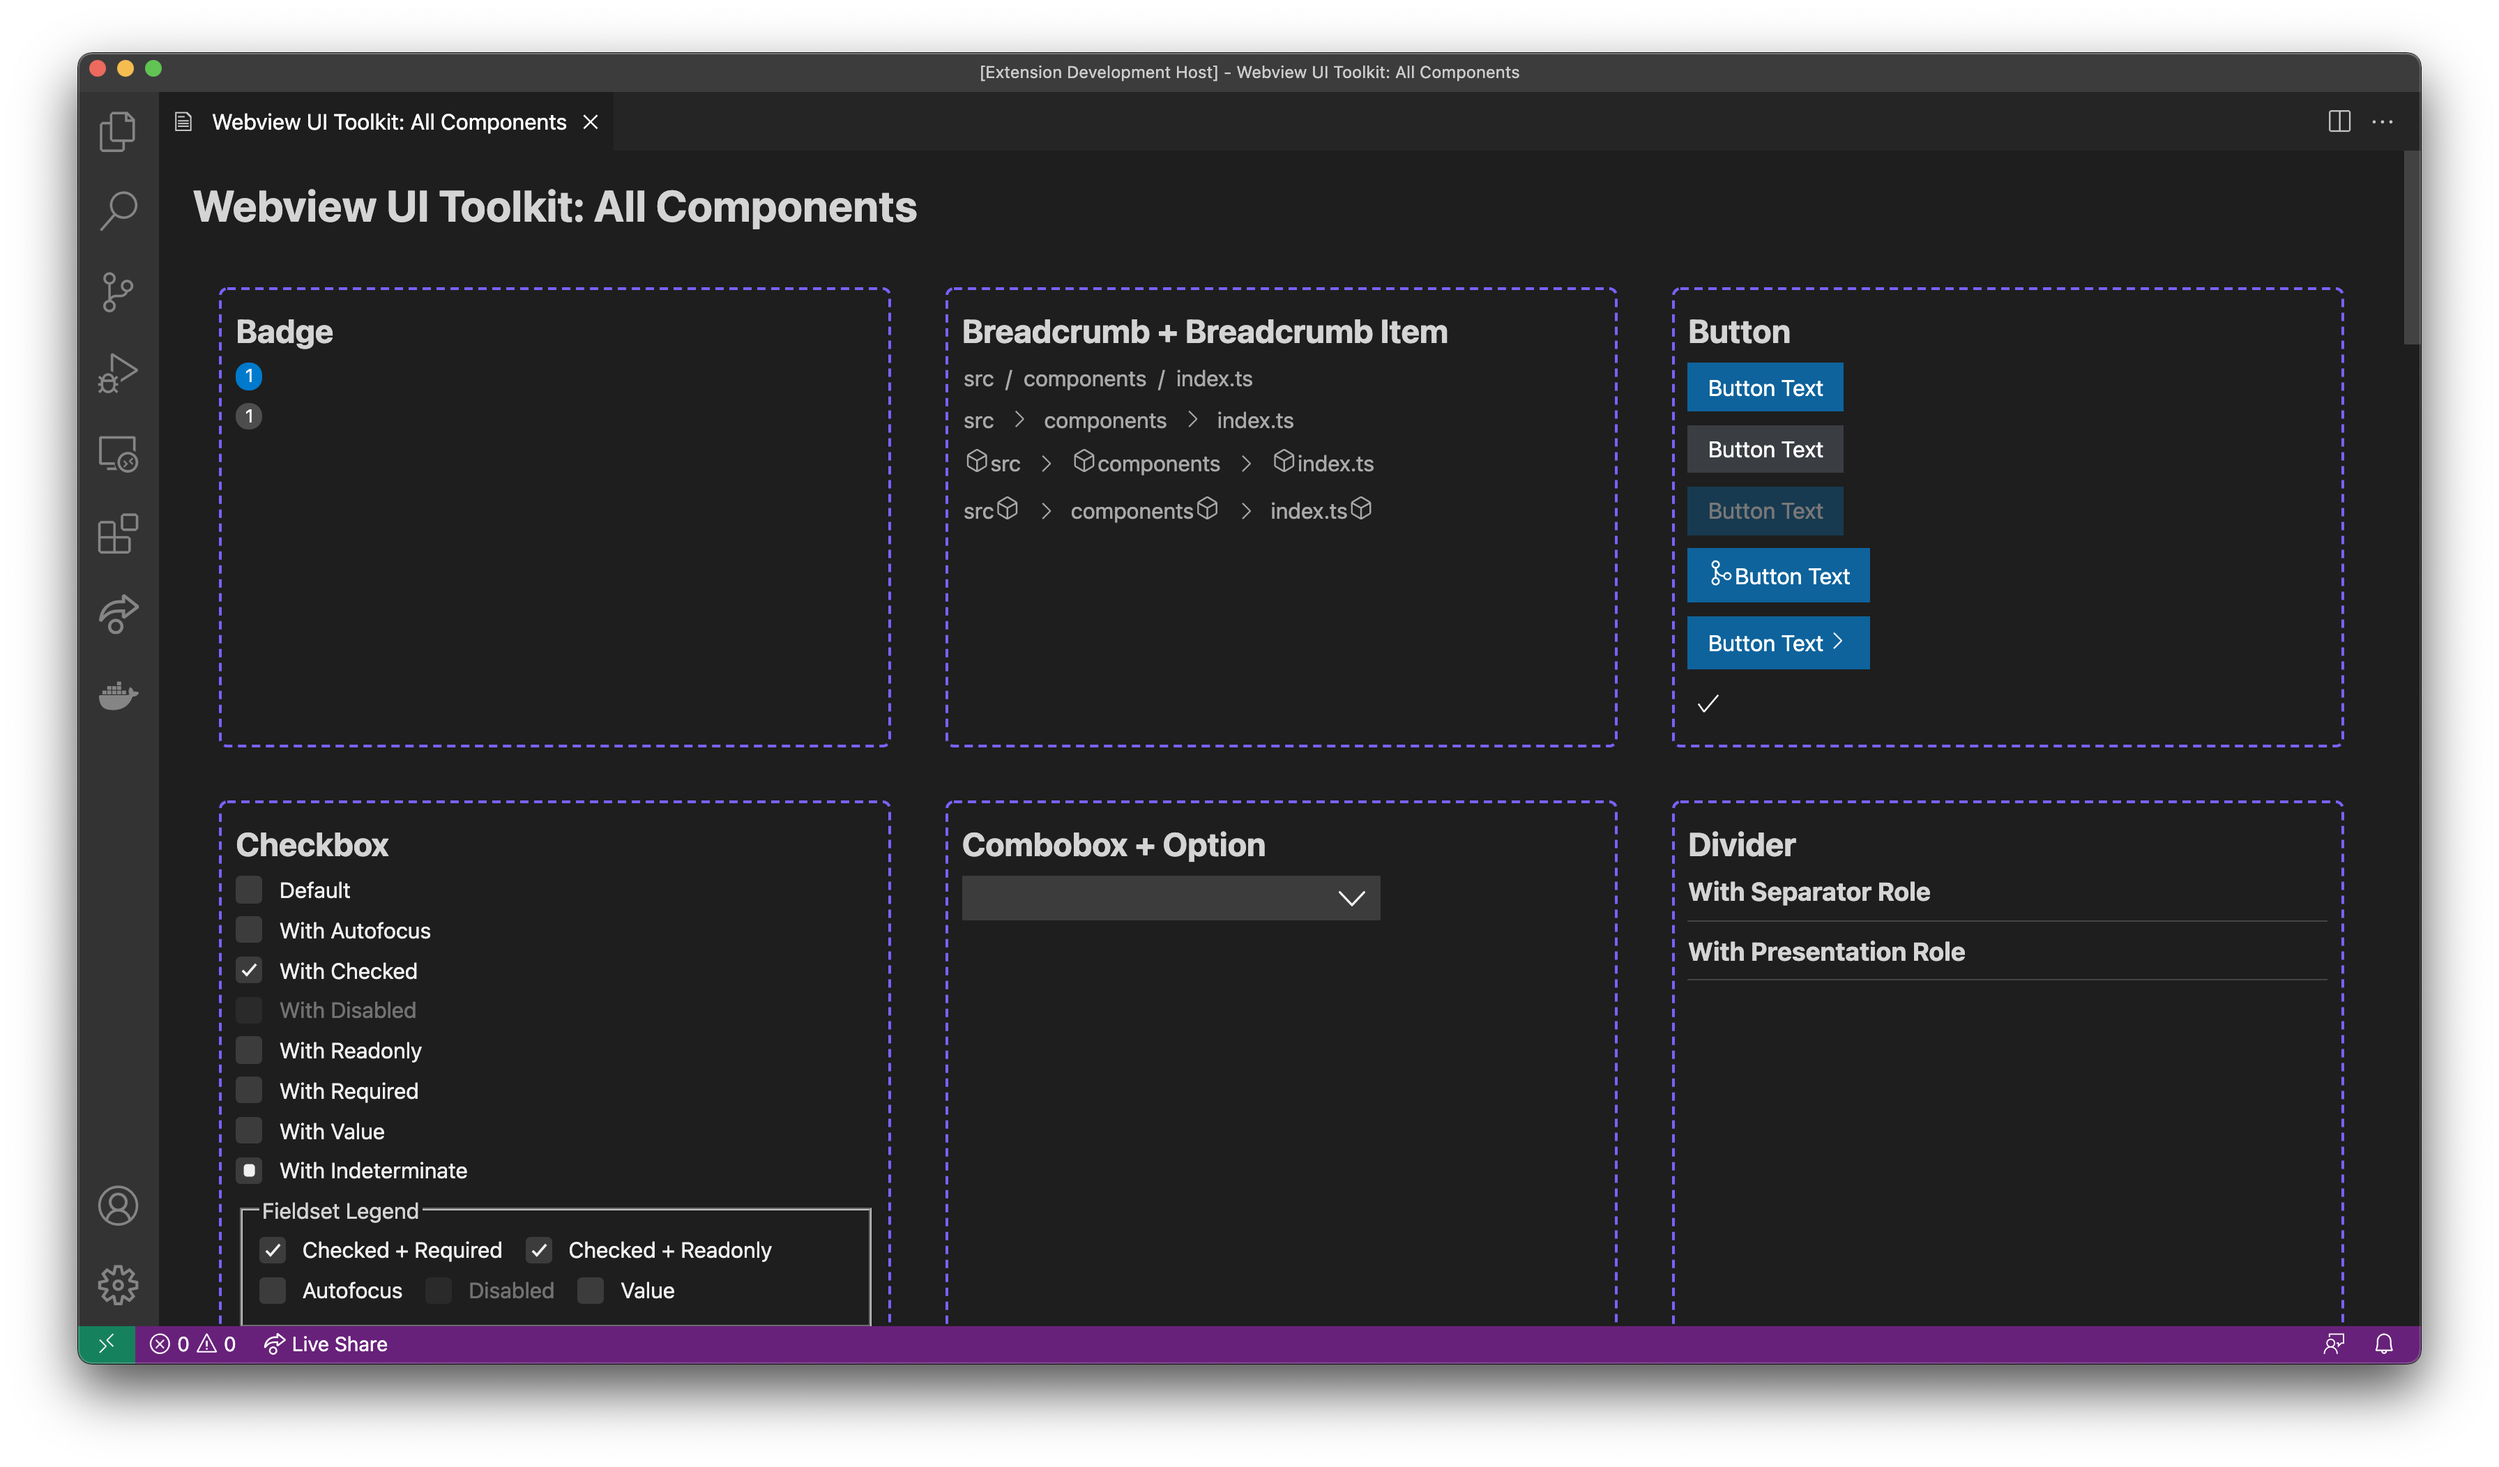
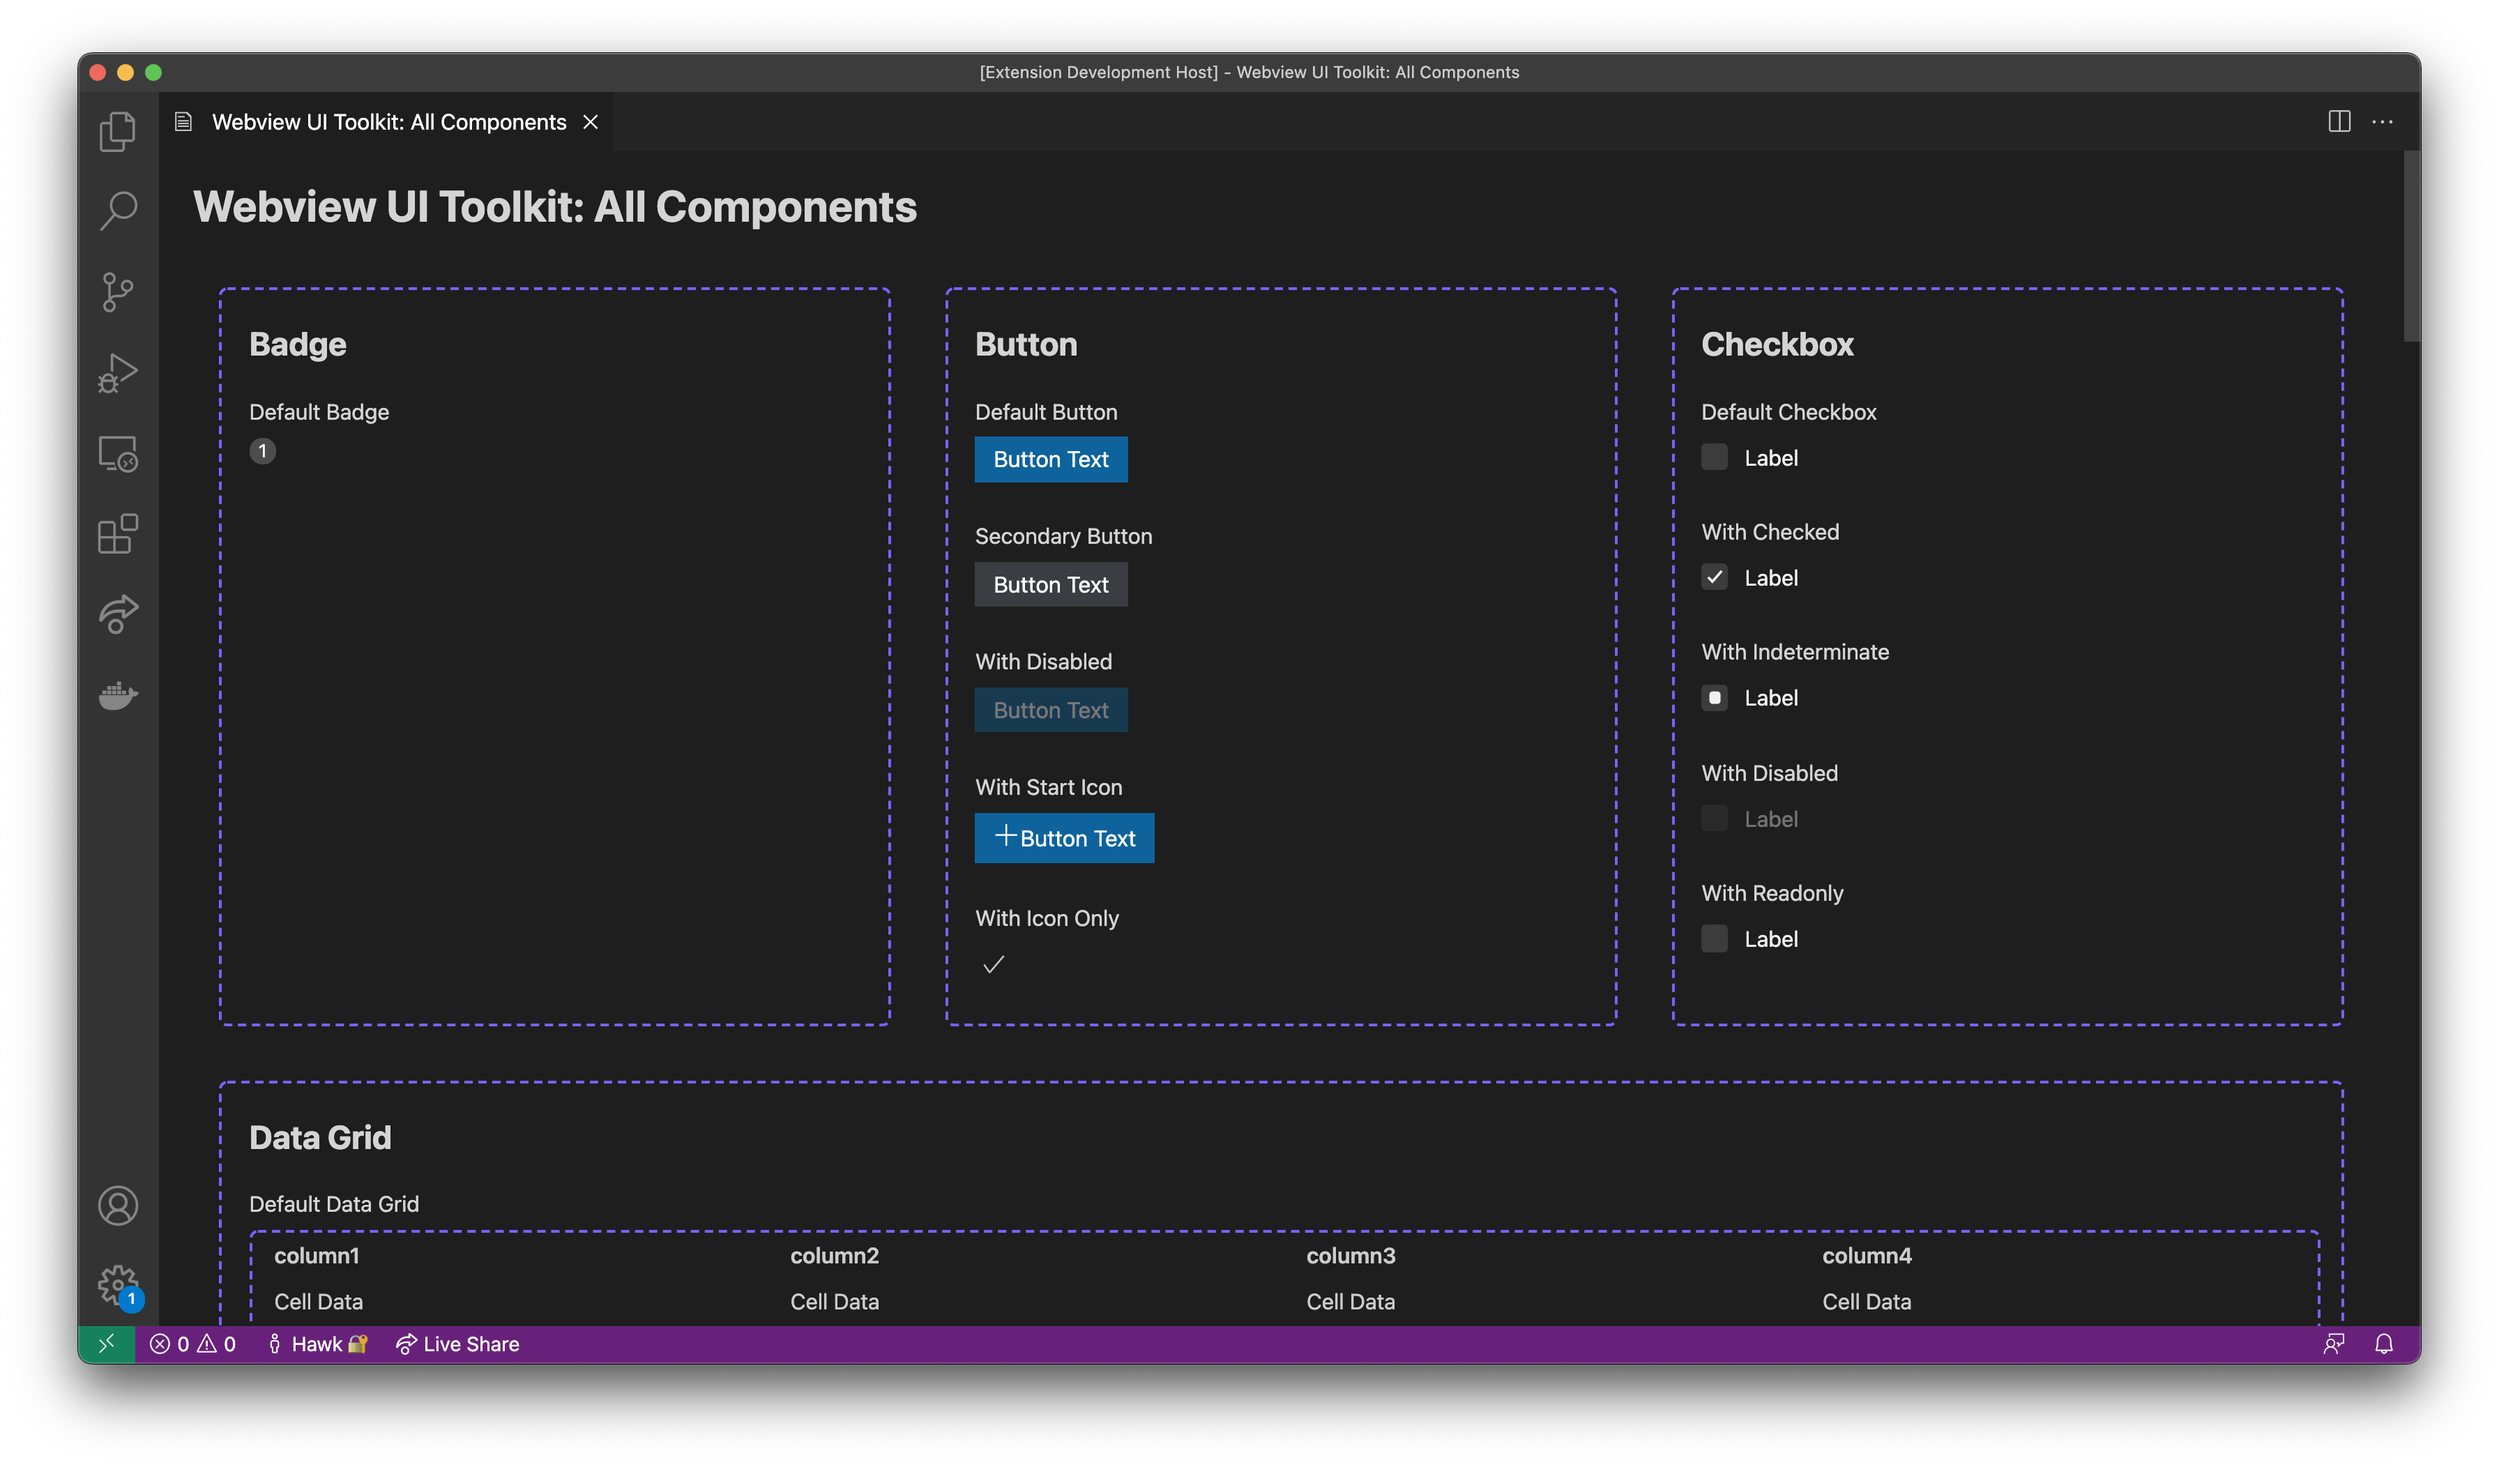
Update `all-components` Sample Extension (#19)
Description of changes

Update `all-components` sample extension to reflect some changes in the core toolkit.

Also, update the README screenshot image.

diff --git a/all-components/src/ui/components/text-area.ts b/all-components/src/ui/components/text-area.ts
@@ -3,55 +3,47 @@ export const textAreaDemo = /*html*/ `
     <h2>Text Area</h2>
     <section class="component-example">
       <p>Default Text Area</p>
-      <vscode-text-area></vscode-text-area>
-    </section>
-    <section class="component-example">
-      <p>With Label</p>
-      <vscode-text-area>Label</vscode-text-area>
+      <vscode-text-area>Text Area Label</vscode-text-area>
     </section>
     <section class="component-example">
       <p>With Disabled</p>
-      <vscode-text-area disabled>Label</vscode-text-area>
-    </section>
-    <section class="component-example">
-      <p>With Readonly</p>
-      <vscode-text-area readonly>Label</vscode-text-area>
-    </section>
-    <section class="component-example">
-      <p>With Cols</p>
-      <vscode-text-area cols="50">Label</vscode-text-area>
-    </section>
-    <section class="component-example">
-      <p>With Rows</p>
-      <vscode-text-area rows="20">Label</vscode-text-area>
-    </section>
-    <section class="component-example">
-      <p>With Maxlength</p>
-      <vscode-text-area maxlength="10">Label</vscode-text-area>
-    </section>
-    <section class="component-example">
-      <p>With Minlength</p>
-      <vscode-text-area minlength="10">Label</vscode-text-area>
+      <vscode-text-area disabled>Text Area Label</vscode-text-area>
     </section>
     <section class="component-example">
       <p>With Placeholder</p>
-      <vscode-text-area placeholder="This is placeholder text">Label</vscode-text-area>
+      <vscode-text-area placeholder="This is placeholder text">Text Area Label</vscode-text-area>
+    </section>
+    <section class="component-example">
+      <p>With Readonly</p>
+      <vscode-text-area readonly>Text Area Label</vscode-text-area>
+    </section>
+    <section class="component-example">
+      <p>With Cols</p>
+      <vscode-text-area cols="50">Text Area Label</vscode-text-area>
+    </section>
+    <section class="component-example">
+      <p>With Rows</p>
+      <vscode-text-area rows="20">Text Area Label</vscode-text-area>
+    </section>
+    <section class="component-example">
+      <p>With Maxlength</p>
+      <vscode-text-area maxlength="10">Text Area Label</vscode-text-area>
     </section>
     <section class="component-example">
       <p>With Resize None</p>
-      <vscode-text-area resize="none">Label</vscode-text-area>
+      <vscode-text-area resize="none">Text Area Label</vscode-text-area>
     </section>
     <section class="component-example">
       <p>With Resize Both</p>
-      <vscode-text-area resize="both">Label</vscode-text-area>
+      <vscode-text-area resize="both">Text Area Label</vscode-text-area>
     </section>
     <section class="component-example">
       <p>With Resize Vertical</p>
-      <vscode-text-area resize="vertical">Label</vscode-text-area>
+      <vscode-text-area resize="vertical">Text Area Label</vscode-text-area>
     </section>
     <section class="component-example">
       <p>With Resize Horizontal</p>
-      <vscode-text-area resize="horizontal">Label</vscode-text-area>
+      <vscode-text-area resize="horizontal">Text Area Label</vscode-text-area>
     </section>
   </section>
 `;

diff --git a/all-components/src/ui/components/text-field.ts b/all-components/src/ui/components/text-field.ts
@@ -3,48 +3,40 @@ export const textFieldDemo = /*html*/ `
     <h2>Text Field</h2>
     <section class="component-example">
       <p>Default Text Field</p>
-      <vscode-text-field></vscode-text-field>
-    </section>
-    <section class="component-example">
-      <p>With Label</p>
-      <vscode-text-field>Label</vscode-text-field>
+      <vscode-text-field>Text Field Label</vscode-text-field>
     </section>
     <section class="component-example">
       <p>With Disabled</p>
-      <vscode-text-field disabled>Label</vscode-text-field>
+      <vscode-text-field disabled>Text Field Label</vscode-text-field>
     </section>
     <section class="component-example">
       <p>With Placeholder</p>
-      <vscode-text-field placeholder="This is placeholder text">Label</vscode-text-field>
+      <vscode-text-field placeholder="This is placeholder text">Text Field Label</vscode-text-field>
     </section>
     <section class="component-example">
-      <p>With Name</p>
-      <vscode-text-field name="example-vscode-text-field">Label</vscode-text-field>
-    </section>
-    <section class="component-example">
-      <p>With Maxlength</p>
-      <vscode-text-field maxlength="10">Label</vscode-text-field>
-    </section>
-    <section class="component-example">
-      <p>With Minlength</p>
-      <vscode-text-field minlength="10">Label</vscode-text-field>
+      <p>With Readonly</p>
+      <vscode-text-field readonly>Text Area Label</vscode-text-field>
     </section>
     <section class="component-example">
       <p>With Size</p>
-      <vscode-text-field size="50">Label</vscode-text-field>
+      <vscode-text-field size="50">Text Field Label</vscode-text-field>
+    </section>
+    <section class="component-example">
+      <p>With Maxlength</p>
+      <vscode-text-field maxlength="10">Text Field Label</vscode-text-field>
     </section>
     <section class="component-example">
       <p>With Start Icon</p>
       <vscode-text-field>
         Label
-        <span slot="start" class="codicon codicon-git-merge"></span>
+        <span slot="start" class="codicon codicon-search"></span>
       </vscode-text-field>
     </section>
     <section class="component-example">
       <p>With End Icon</p>
       <vscode-text-field>
         Label
-        <span slot="end" class="codicon codicon-chevron-right"></span>
+        <span slot="end" class="codicon codicon-text-size"></span>
       </vscode-text-field>
     </section>
   </section>

diff --git a/all-components/src/ui/components/panels.ts b/all-components/src/ui/components/panels.ts
@@ -28,19 +28,6 @@ export const panelsDemo = /*html*/ `
       </vscode-panels>
     </section>
     <section class="component-example">
-      <p>With Disabled</p>
-      <vscode-panels>
-        <vscode-panel-tab id="tab-1" disabled>PROBLEMS</vscode-panel-tab>
-        <vscode-panel-tab id="tab-2" disabled>OUTPUT</vscode-panel-tab>
-        <vscode-panel-tab id="tab-3" disabled>DEBUG CONSOLE</vscode-panel-tab>
-        <vscode-panel-tab id="tab-4" disabled>TERMINAL</vscode-panel-tab>
-        <vscode-panel-view id="view-1"> Problems Content </vscode-panel-view>
-        <vscode-panel-view id="view-2"> Output Content </vscode-panel-view>
-        <vscode-panel-view id="view-3"> Debug Console Content </vscode-panel-view>
-        <vscode-panel-view id="view-4"> Terminal Content </vscode-panel-view>
-      </vscode-panels>
-    </section>
-    <section class="component-example">
       <p>With Badge</p>
       <vscode-panels>
         <vscode-panel-tab id="tab-1">

diff --git a/all-components/src/ui/components/button.ts b/all-components/src/ui/components/button.ts
@@ -14,22 +14,15 @@ export const buttonDemo = /*html*/ `
       <vscode-button disabled>Button Text</vscode-button>
     </section>
     <section class="component-example">
-      <p>With Custom Start Icon</p>
+      <p>With Start Icon</p>
       <vscode-button>
         Button Text
-        <span slot="start" class="codicon codicon-git-merge"></span>
-      </vscode-button>
-    </section>
-    <section class="component-example">
-      <p>With Custom End Icon</p>
-      <vscode-button>
-        Button Text
-        <span slot="end" class="codicon codicon-chevron-right"></span>
+        <span slot="start" class="codicon codicon-add"></span>
       </vscode-button>
     </section>
     <section class="component-example">
       <p>With Icon Only</p>
-      <vscode-button appearance="icon">
+      <vscode-button appearance="icon" aria-label="Confirm">
         <span class="codicon codicon-check"></span>
       </vscode-button>
     </section>

diff --git a/all-components/src/ui/components/checkbox.ts b/all-components/src/ui/components/checkbox.ts
@@ -21,22 +21,5 @@ export const checkboxDemo = /*html*/ `
       <p>With Readonly</p>
       <vscode-checkbox readonly>Label</vscode-checkbox>
     </section>
-    <section class="component-example">
-      <p>With Value</p>
-      <vscode-checkbox value="baz">Label</vscode-checkbox>
-    </section>
-    <section class="component-example">
-      <p>Inside Form</p>
-      <form>
-        <fieldset>
-          <legend>Fieldset Legend</legend>
-          <vscode-checkbox checked required>Checked + Required</vscode-checkbox>
-          <vscode-checkbox checked readonly>Checked + Readonly</vscode-checkbox>
-          <vscode-checkbox autofocus>Autofocus</vscode-checkbox>
-          <vscode-checkbox disabled>Disabled</vscode-checkbox>
-          <vscode-checkbox value="baz">Value</vscode-checkbox>
-        </fieldset>
-      </form>
-    </section>
   </section>
 `;

diff --git a/all-components/src/ui/getWebviewContent.ts b/all-components/src/ui/getWebviewContent.ts
@@ -7,7 +7,6 @@ import { dataGridDemo } from "./components/data-grid";
 import { dividerDemo } from "./components/divider";
 import { dropdownDemo } from "./components/dropdown";
 import { linkDemo } from "./components/link";
-import { numberFieldDemo } from "./components/number-field";
 import { panelsDemo } from "./components/panels";
 import { progressRingDemo } from "./components/progress-ring";
 import { radioGroupDemo } from "./components/radio-group";
@@ -64,12 +63,11 @@ export function getWebviewContent(webview: Webview, extensionUri: Uri) {
 					${panelsDemo}
 				</section>
 				<section class="component-row">
-					${numberFieldDemo}
 					${progressRingDemo}
 					${radioGroupDemo}
+					${tagDemo}
 				</section>
 				<section class="component-row">
-					${tagDemo}
 					${textAreaDemo}
 					${textFieldDemo}
 				</section>

diff --git a/all-components/src/ui/components/data-grid.ts b/all-components/src/ui/components/data-grid.ts
@@ -10,10 +10,6 @@ export const dataGridDemo = /*html*/ `
       <vscode-data-grid class="basic-grid" grid-template-columns="1fr 1fr 1fr 1fr"></vscode-data-grid>
     </section>
     <section class="component-example">
-      <p>With No Header</p>
-      <vscode-data-grid class="basic-grid" generate-header="none" grid-template-columns="1fr 1fr 1fr 1fr"></vscode-data-grid>
-    </section>
-    <section class="component-example">
       <p>With Sticky Header</p>
       <vscode-data-grid class="basic-grid" generate-header="sticky" grid-template-columns="1fr 1fr 1fr 1fr"></vscode-data-grid>
     </section>

diff --git a/all-components/src/ui/components/progress-ring.ts b/all-components/src/ui/components/progress-ring.ts
@@ -5,13 +5,5 @@ export const progressRingDemo = /*html*/ `
       <p>Default Progress Bar</p>
       <vscode-progress-ring></vscode-progress-ring>
     </section>
-    <section class="component-example">
-      <p>With Value</p>
-      <vscode-progress-ring value="65"></vscode-progress-ring>
-    </section>
-    <!--
-    <vscode-progress-ring min="10" value="5"></vscode-progress-ring>
-    <vscode-progress-ring max="75" value="100"></vscode-progress-ring>
-    -->
   </section>
 `;
